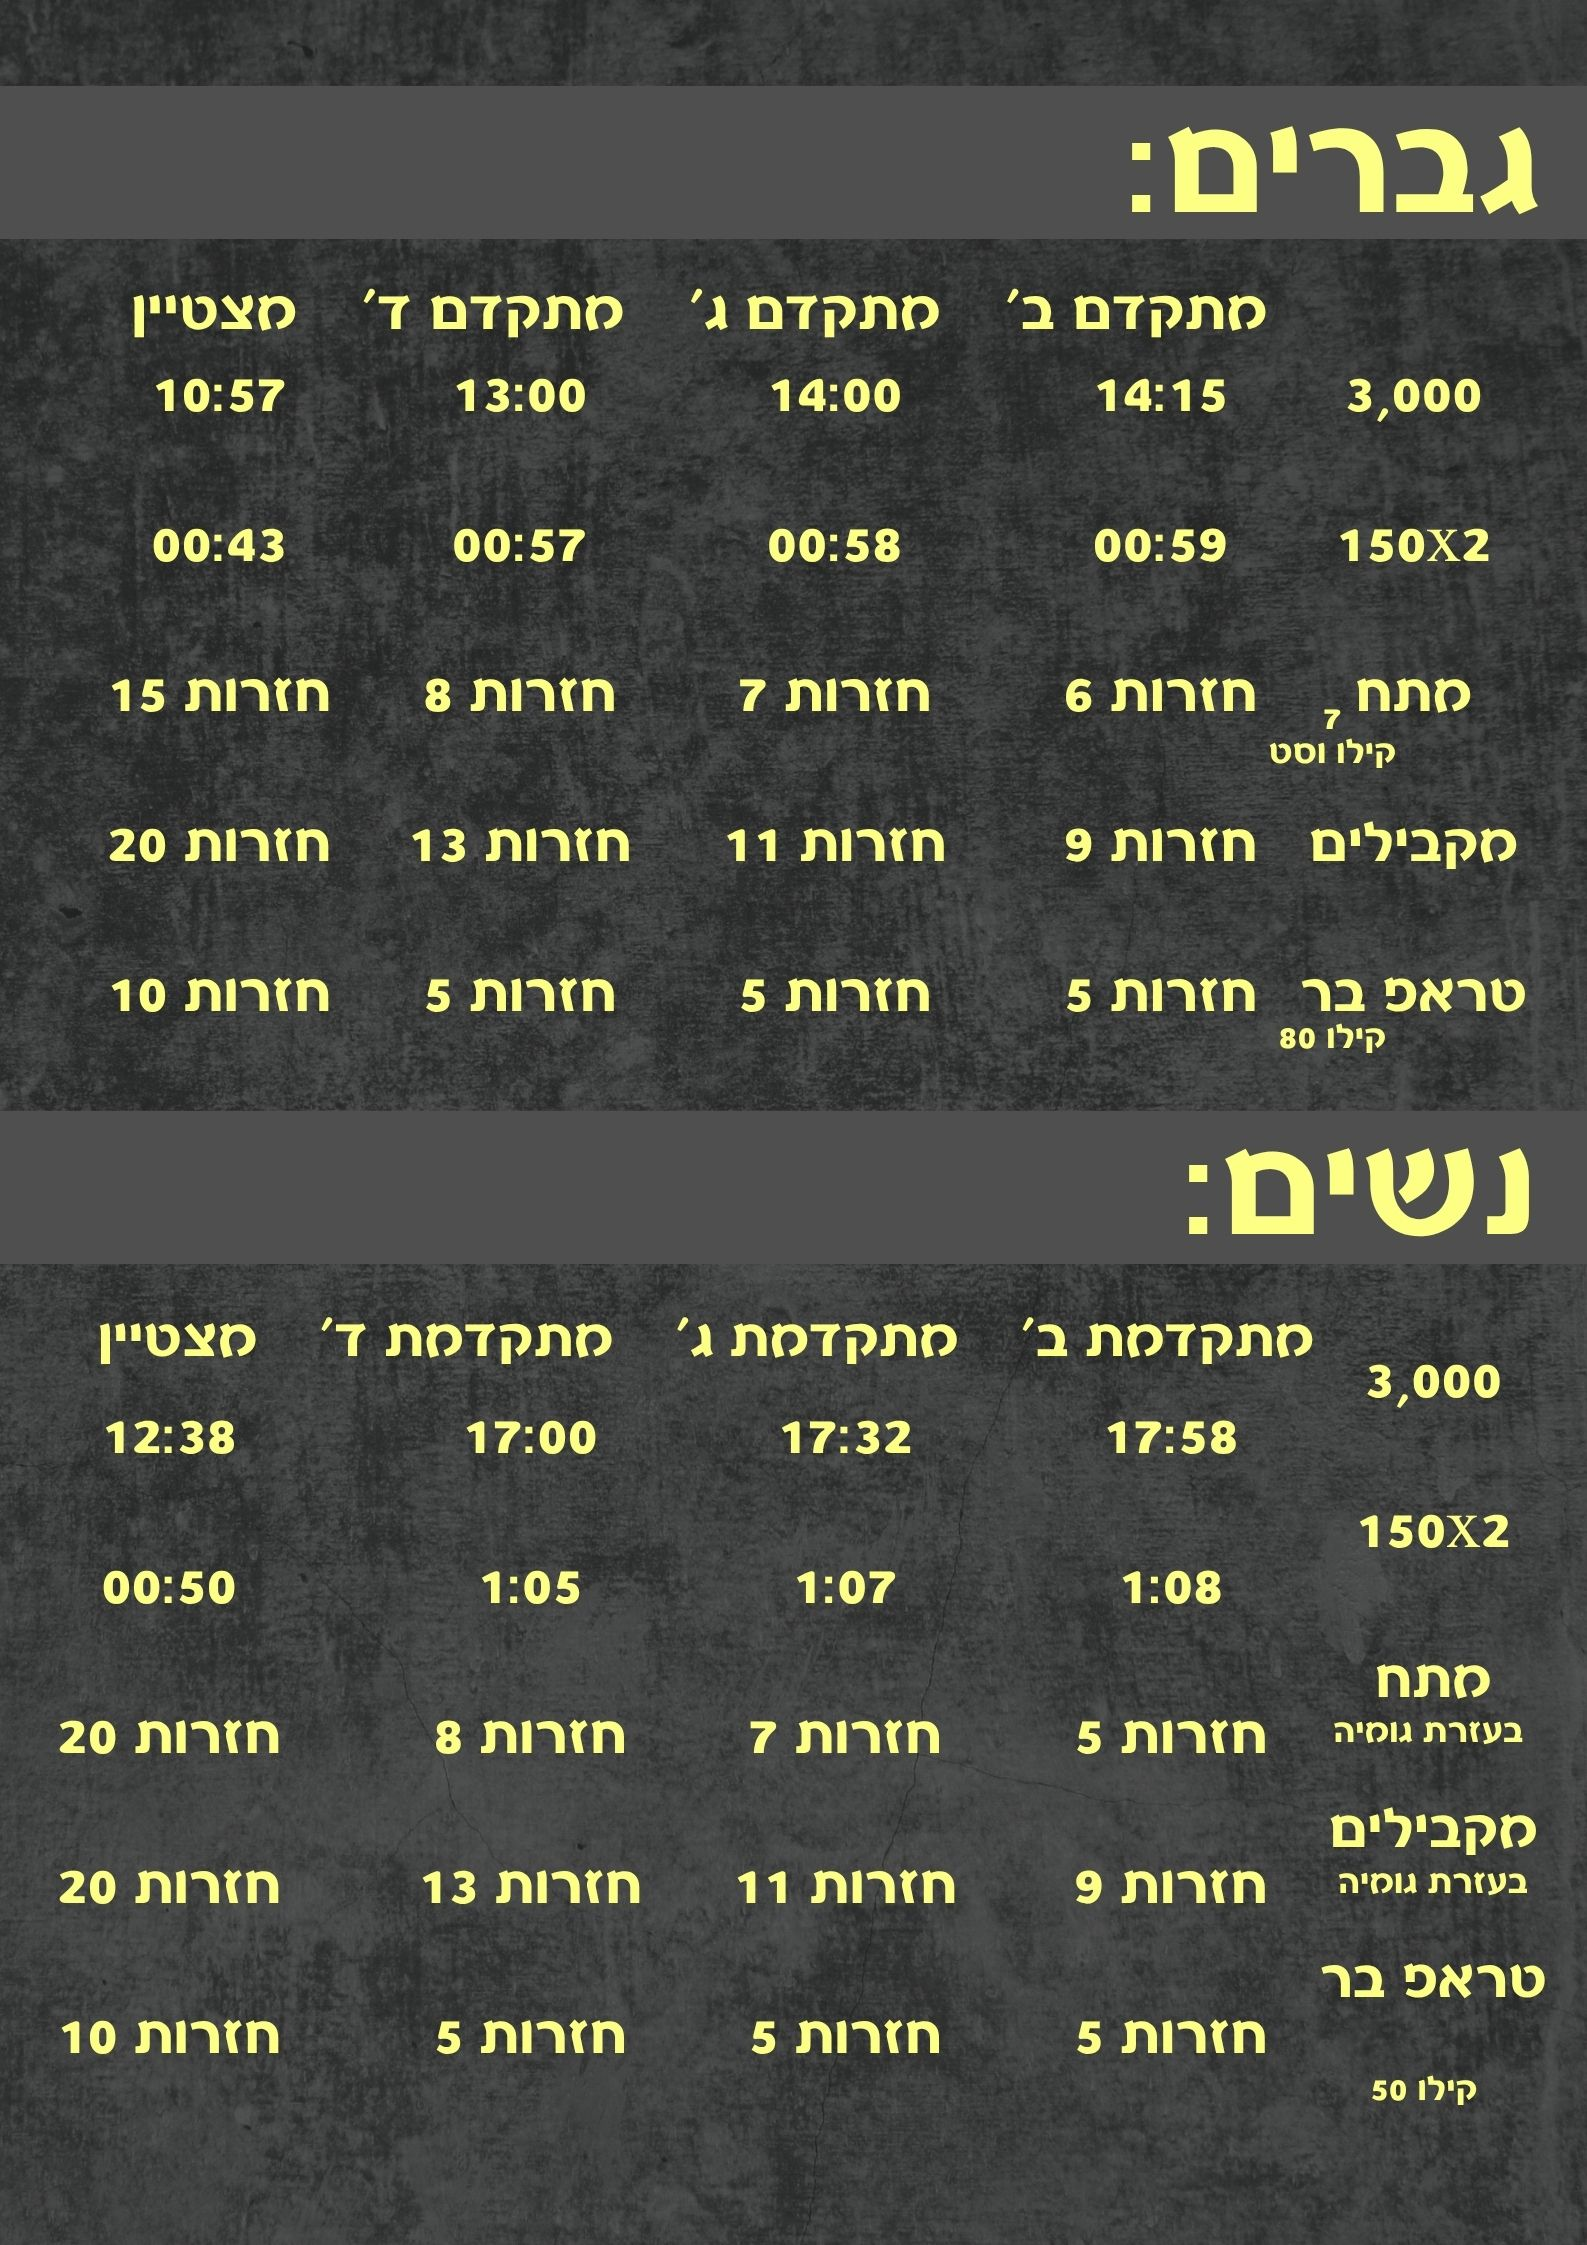
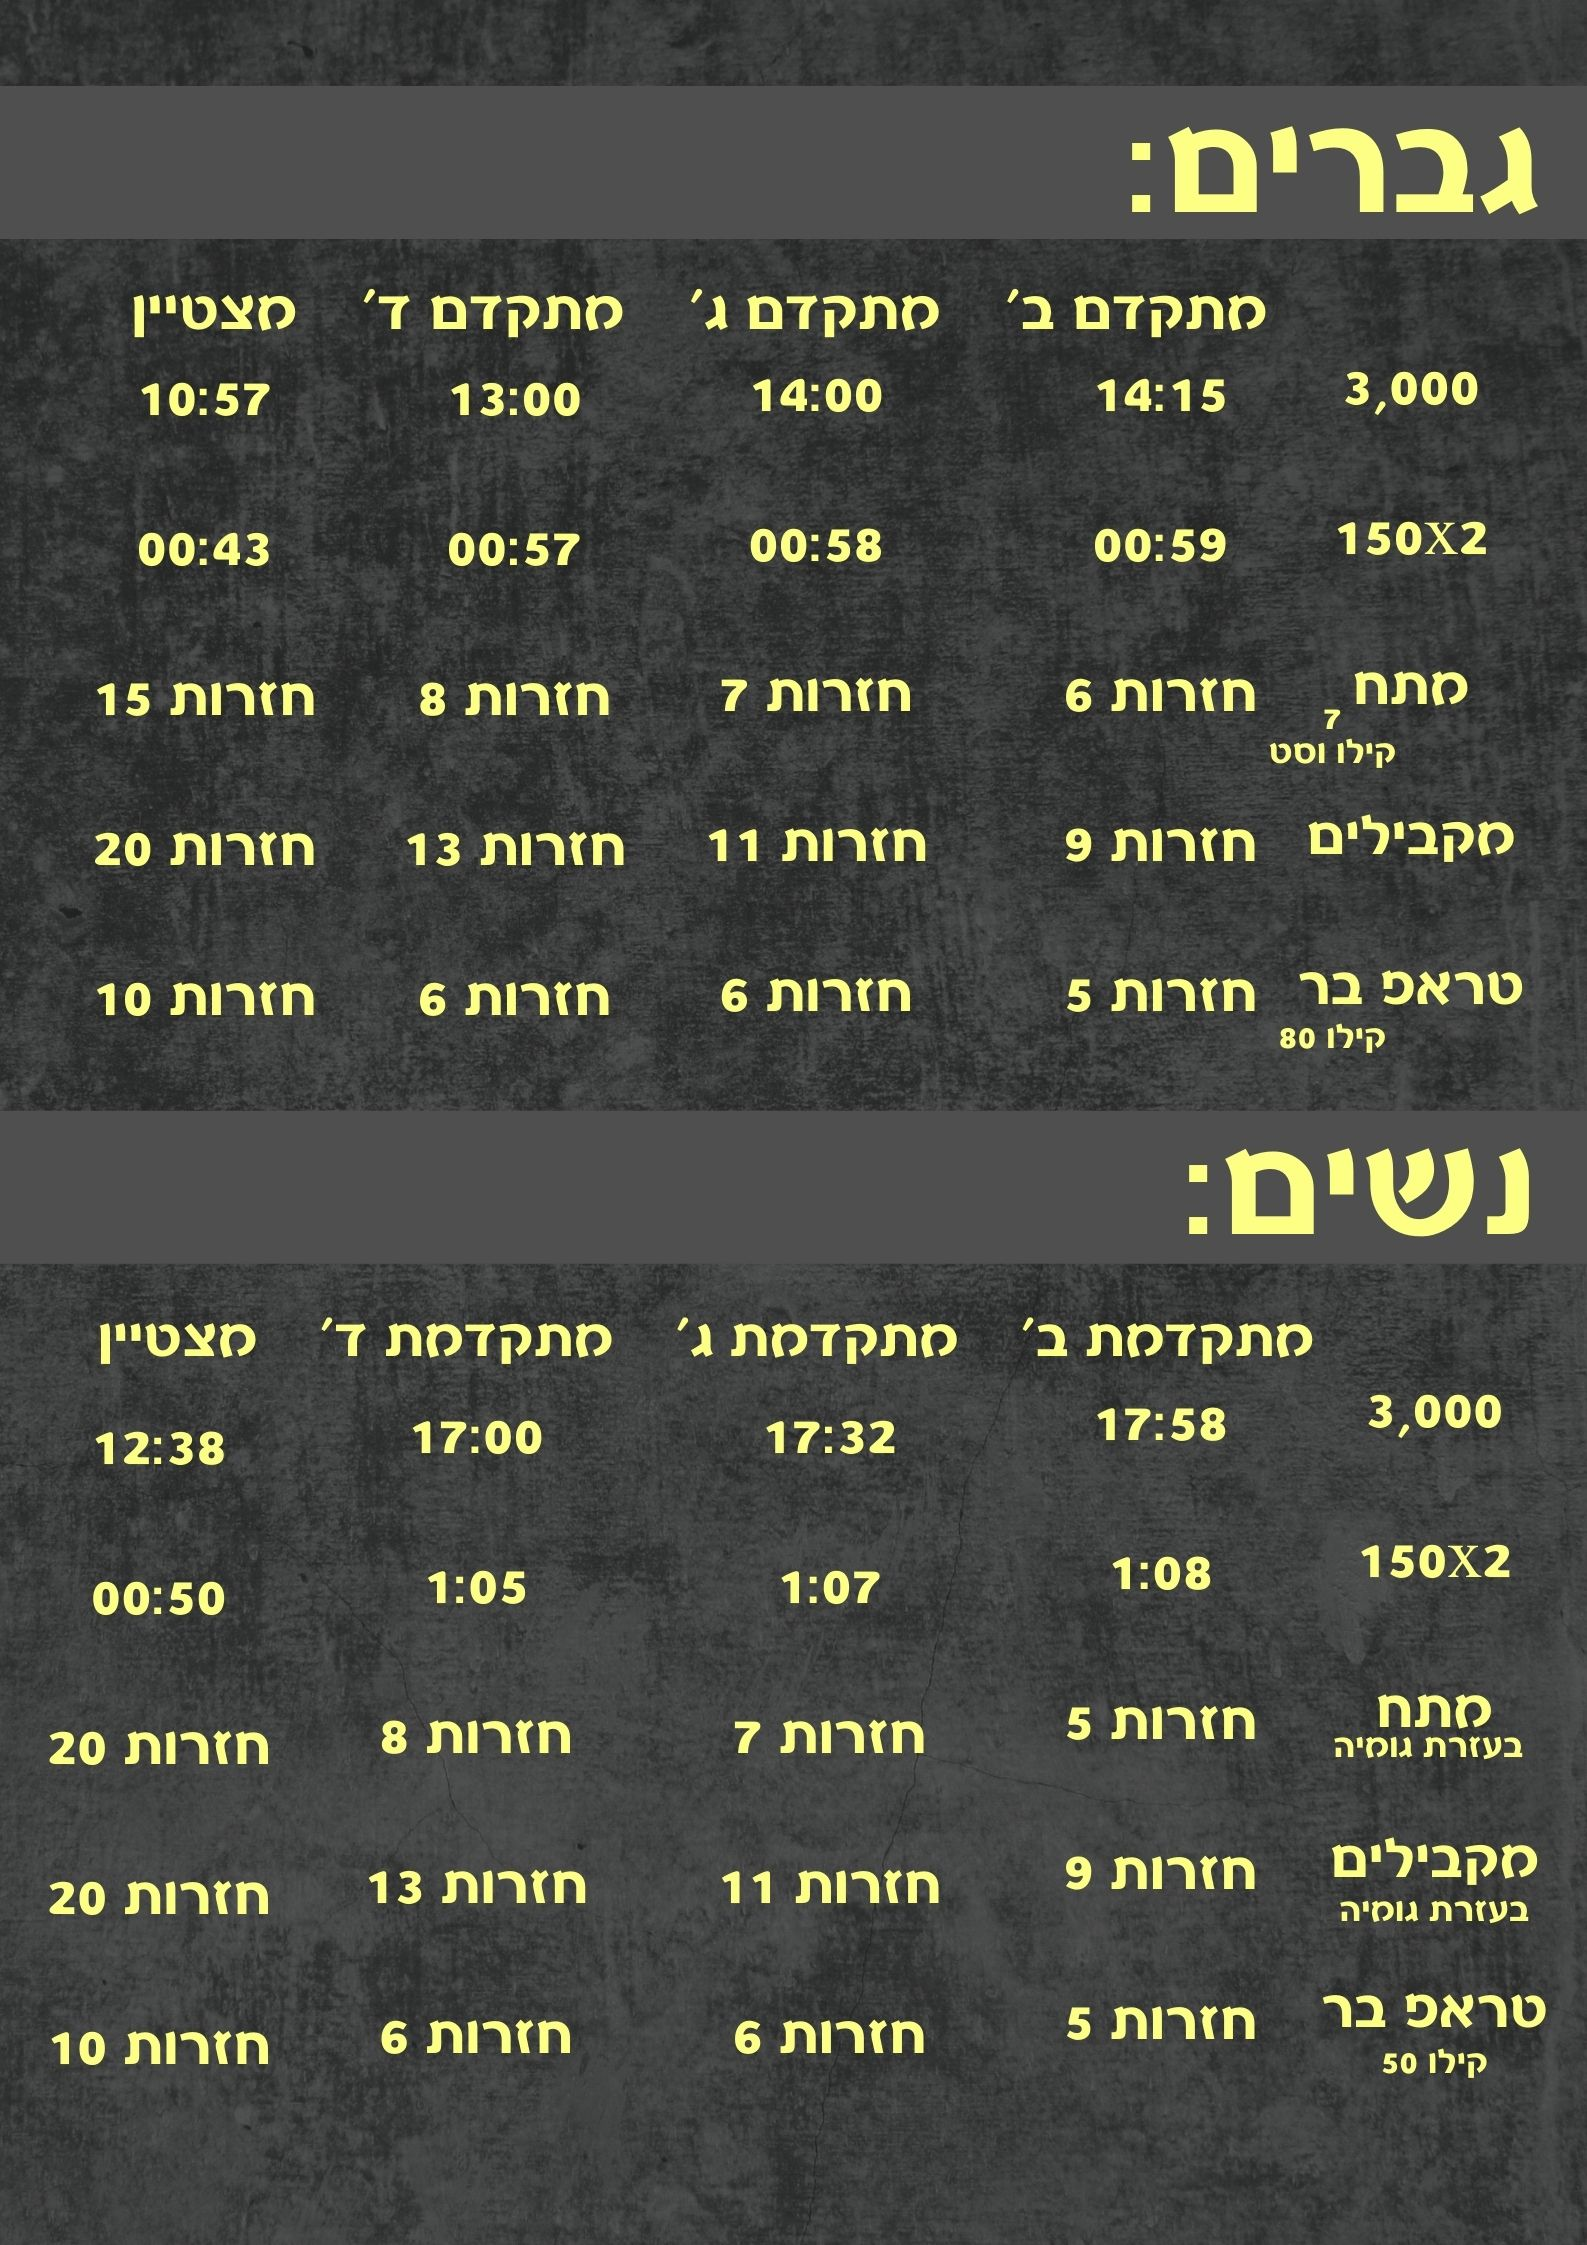
added forced reading!

diff --git a/src/components/NituachIsuk.vue b/src/components/NituachIsuk.vue
@@ -1,0 +1,100 @@
+<template>
+  <div class="nituach-isuk">
+    <div class="banner">
+        ניתוח עיסוק
+    </div>
+    <p v-show="showNew" class="highlight">מאחר וזו הפעם הראשונה שאתם משתמשים בלומדה, עליכם לקרוא על ניתוח עיסוק.</p>
+    <p>חיילים בחיל הגנת הגבולות צריכים להיות חזקים פיזית ומנטלית.</p>
+    <h2>לוחמי איסוף</h2>
+    <p>
+        צריכים לסחוב משקל כבד (אמצעי אמלח) וללכת איתו בשטחים משתנים למרחקים שבין 9-20 ק''מ ולשהות סטטית עם הציוד עליהם.
+        <br>
+        הלוחמים גם נדרשים לפנות פצועים באלונקה עד לנקודת פינוי.
+    </p>
+    <h2>לוחמי חי"ר גבולות</h2>
+    <p>
+        צריכים להיות מוכנים לריצות קצרות על מנת לקפוץ בהתקלויות והסתערויות, לסחוב פקלים שונים במשקלים שונים ובנוסף ציוד מלא בפטרולים ומארבים, ובמידת הצורך גם לפנות פצועים באלונקה.
+    </p>
+    <h2 class="higlight" style="text-align:center;">איך אני מתאמן בהתאם לניתוח העיסוק שלי?</h2>
+    <p>
+        לוחמי איסוף- אימוני נד"ב, אימוני פילאטיס וליבה, אימוני כוח חיזוק פלג גוף עליון (החזקת משקלים כבדים) ופלג גוף תחתון (הליכה עם המשקלים).
+    </p>
+    <p>
+        לוחמי חי"ר גבולות- מארז 3, מקטעים, עליות, קרב מגע וכוח מתפרץ.
+    </p>
+    <button v-show="showNew" class="my-btn" @click="done">הבנתי,
+        <br> אפשר להמשיך >>
+    </button>
+    <div id="navs" @click="rth" v-show="!showNew">
+                <img src="../assets/return.png" id="nav">
+                <p>חזרה</p>
+    </div>
+  </div>
+</template>
+
+<script>
+export default {
+    computed : {
+        showNew(){
+            //I named it first visit stupidly even though when its true it signifies that its NOT the first visit but... too late i guess
+            const firstVisit = localStorage.getItem('firstVisit');
+            return !firstVisit
+        }
+    },
+    methods : {
+        rth(){
+            this.$router.push('general')
+        },
+        done(){
+            localStorage.setItem('firstVisit' , true);
+            this.$router.push('general');
+        }
+    }
+}
+</script>
+
+<style>
+.nituach-isuk{
+    height: 95%;
+    width:100vw;
+    position: relative;
+    font-family: "text";
+    color: white;
+    overflow: auto;
+}
+
+.banner{
+    height: 10%;
+    width:70%;
+    background-image: url("../assets/banner.png");
+    background-size: cover;
+    font-family: "titles" !important;
+    position:relative;
+    right:0%;
+    display: flex;
+    flex-direction: column;
+    justify-content: center;
+    text-align: right;
+    padding: 3%;
+    font-size: 1.3rem;
+    color: #2f2f2f;
+    text-shadow: white 2px 2px 2px;
+    padding-right:0 ;
+}
+
+.highlight{
+    color : #fdff85;
+    font-weight: bold;
+}
+
+.my-btn{
+    background-color:#fdff85;
+    margin-bottom: 2%;
+    font-size: 1rem;
+    border-radius: 20px;
+    margin-right: 1%;
+    color:#2f2f2f;
+    position: relative;
+    right:57%;
+}
+</style>

diff --git a/src/components/GeneralInfo.vue b/src/components/GeneralInfo.vue
@@ -5,6 +5,7 @@
         <div v-if="display === 'menu'" class="btns-container">
             <p>לפניכם מידע בנושאים שונים, בחרו אחד כדי להתחיל. ניתן לחזור לתפריט זה בצד שמאל למטה</p>
             <button v-for="(item , index) in subjects" :key="index" @click="display=item.id" class="my-btn">{{ item.text }}</button>
+            <button @click="this.$router.push('nituachIsuk')" class="my-btn">ניתוח עיסוק</button>
         </div>
         <div v-if="display === 'structure'">
             <h2>מבנה אימון</h2>
@@ -108,6 +109,7 @@
             <ul>
                 <li v-for="(item , index) in types.nutriList" :key="index">{{ item }}</li>
             </ul>
+            <img src="../assets/graphics/tzuna.jpg" class="res"/>
             <div id="navs" @click="goBack">
                 <img src="../assets/return.png" id="nav">
                 <p>חזרה לתפריט</p>
@@ -129,7 +131,8 @@
                 <li v-for="(item , index) in types.alts" :key="index">{{ item }}</li>
             </ul>
             
-            <img src="../assets/cashagres.jpg" class="res">
+            <img src="../assets/graphics/tests.jpg" class="res">
+            <img src="../assets/graphics/metach.jpg" class="res"/>
         </div>
         
         <div id="navs" @click="rth">
@@ -153,8 +156,9 @@ export default {
                 { id :"safety" , text : "הוראות בטיחות"} ,
                 { id : "nutrition" , text: "תזונה"} ,
                 { id : "phisyo" , text : "פיזיותרפיה ומניעת פציעות"} ,
-                { id : "improve" , text : "שיפור כש''ג"}
-            ]
+                { id : "improve" , text : "שיפור כש''ג"},
+                
+            ],
 
         }
     },
@@ -173,7 +177,7 @@ export default {
                 this.display = 'menu'
             }
             
-        }
+        },
     },
     computed : {
         rthText(){
@@ -183,6 +187,14 @@ export default {
             else{
                 return "חזרה לתפריט"
             }
+        },
+    },
+    mounted(){
+        //I named it first visit stupidly even though when its true it signifies that its NOT the first visit but... too late i guess
+        //basically what it does is: if its the first visit, redirects to ניתוח עיסוק and forces them to read it
+        const firstVisit = localStorage.getItem('firstVisit');
+        if(!firstVisit){
+            this.$router.push('nituachIsuk')
         }
     }
 }
@@ -203,8 +215,6 @@ export default {
     height: 95%;
     width:100vw;
     position: relative;
-    left: 8.5%;
-    top: -3%;
     font-family: "text";
     color: white;
     overflow: auto;
@@ -247,12 +257,15 @@ p{
 }
 
 .my-btn{
+    all:unset;
     background-color:#fdff85;
     margin: 3%;
-    margin-left: 5%;
     font-size: 1.5rem;
     border-radius: 20px;
     color:#2f2f2f;
+    right:0;
+    padding: 4%;
+    text-align: center;
 }
 
 .texts{
@@ -309,7 +322,7 @@ li{
     width:70%;
     position: fixed;
     right:3%;
-    bottom: 3%;
+    bottom: 1%;
     display: flex;
     flex-flow: row nowrap;
     color : #fdff85;

diff --git a/src/router/index.js b/src/router/index.js
@@ -13,6 +13,7 @@ import SpeachComp from '../components/SpeachComp.vue'
 import PushDay from '../components/workouts/PushDay.vue'
 import PullDay from '../components/workouts/PullDay.vue'
 import LegDay from '../components/workouts/LegDay.vue'
+import NituachIsuk from '../components/NituachIsuk.vue'
 
 const routes = [
     {path : '/' , component : OpeningScreen},
@@ -34,7 +35,8 @@ const routes = [
         { path : '/shorts' , component : ShortsComp }
       ]
     },
-    {path : '/speach' , component : SpeachComp}
+    {path : '/speach' , component : SpeachComp},
+    {path : '/nituachIsuk' , component : NituachIsuk}
 ]
 
 const router = createRouter({

diff --git a/src/components/WorkoutSubjects.vue b/src/components/WorkoutSubjects.vue
@@ -56,8 +56,7 @@ export default {
     height: 95%;
     width:100vw;
     position: relative;
-    left: 8.5%;
-    top: -3%;
+
     font-family: "text";
     color: white;
     overflow: auto;
@@ -111,7 +110,7 @@ export default {
     width:70%;
     position: fixed;
     right:3%;
-    bottom: 3%;
+    bottom: 1%;
     display: flex;
     flex-flow: row nowrap;
     color : #fdff85;

diff --git a/src/components/SpeachComp.vue b/src/components/SpeachComp.vue
@@ -56,8 +56,7 @@ export default {
     height: 95%;
     width:100vw;
     position: relative;
-    left: 8.5%;
-    top: -3%;
+
     font-family: "text";
     color: white;
     overflow: auto;
@@ -162,7 +161,7 @@ li{
     width:70%;
     position: fixed;
     right:3%;
-    bottom: 3%;
+    bottom: 1%;
     display: flex;
     flex-flow: row nowrap;
     color : #fdff85;

diff --git a/src/components/OpeningScreen.vue b/src/components/OpeningScreen.vue
@@ -70,8 +70,7 @@ export default {
     height: 95%;
     width:100vw;
     position: relative;
-    left:9.7%;
-    top: -3%;
+
     font-family: "text";
     color: white;
     overflow: auto;

diff --git a/src/components/WorkoutTypes.vue b/src/components/WorkoutTypes.vue
@@ -179,7 +179,7 @@ export default {
     width:70%;
     position: fixed;
     right:3%;
-    bottom: 3%;
+    bottom: 1%;
     display: flex;
     flex-flow: row nowrap;
     color : #fdff85;
